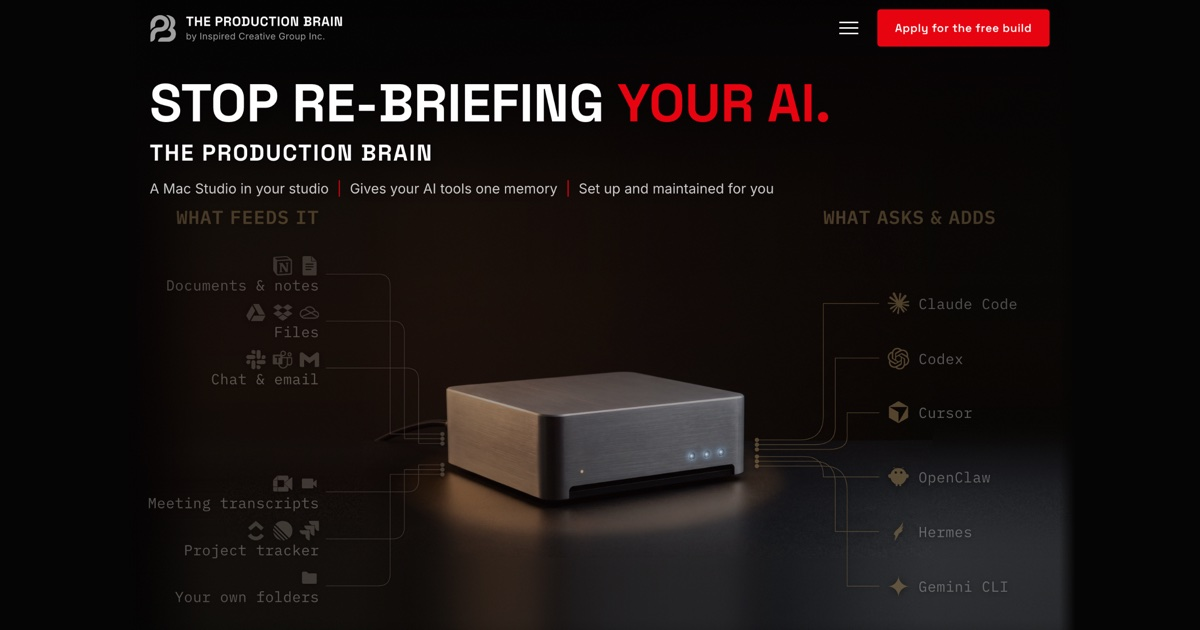
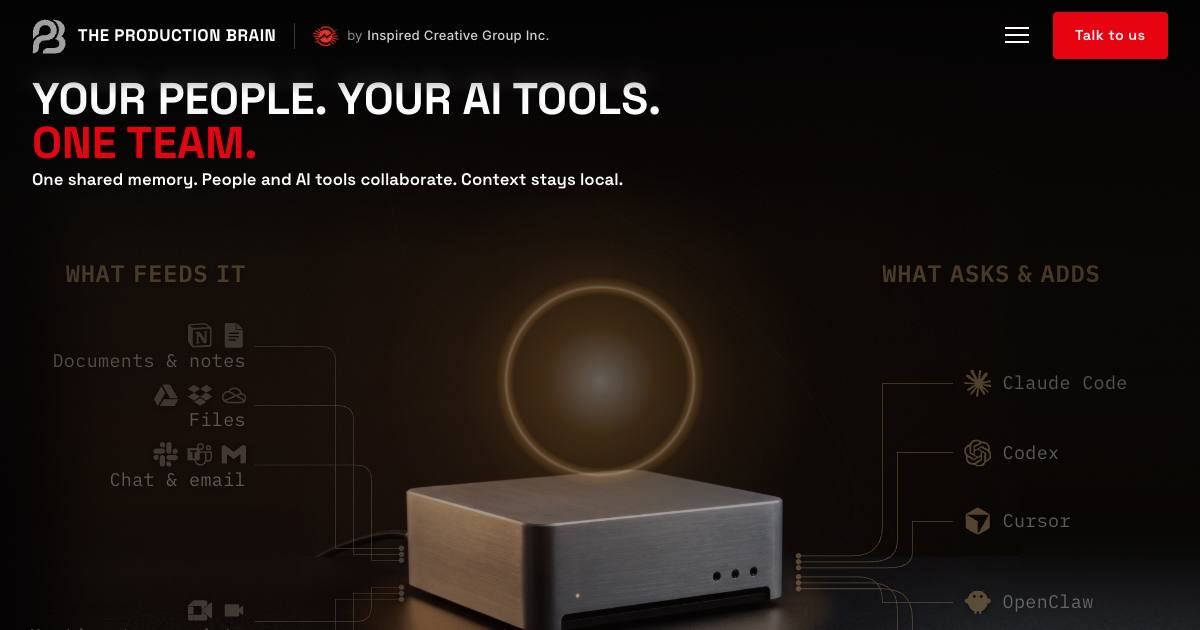
Offer: free build removed; every button reads Talk to us; setup fee quoted after a first call; pricing toggle removed (form_type call_request); new share image (Sandy, 2026-11-20)

diff --git a/index.html b/index.html
@@ -37,18 +37,18 @@
     <meta property="og:description" content="Stop being the messenger for your AI tools. The Production Brain gives your company one memory that every AI shares, and you own it. Built and maintained by Inspired Creative Group.">
     <meta name="twitter:title" content="The Production Brain | Inspired Creative Group Inc.">
     <meta name="twitter:description" content="Stop being the messenger for your AI tools. The Production Brain gives your company one memory that every AI shares, and you own it. Built and maintained by Inspired Creative Group.">
-    <meta name="twitter:image" content="https://theproductionbrain.ai/assets/og-image.jpg?v=20261009">
+    <meta name="twitter:image" content="https://theproductionbrain.ai/assets/og-image.jpg?v=20261120">
     <meta property="og:type" content="website">
     <meta property="og:site_name" content="The Production Brain">
     <meta property="og:url" content="https://theproductionbrain.ai/">
-    <meta property="og:image" content="https://theproductionbrain.ai/assets/og-image.jpg?v=20261009">
-    <meta property="og:image:secure_url" content="https://theproductionbrain.ai/assets/og-image.jpg?v=20261009">
+    <meta property="og:image" content="https://theproductionbrain.ai/assets/og-image.jpg?v=20261120">
+    <meta property="og:image:secure_url" content="https://theproductionbrain.ai/assets/og-image.jpg?v=20261120">
     <meta property="og:image:type" content="image/jpeg">
     <meta property="og:image:width" content="1200">
     <meta property="og:image:height" content="630">
-    <meta property="og:image:alt" content="The Production Brain hero: stop being the messenger for your AI tools. A Mac Studio wired to what feeds it and the AI tools that ask and add.">
+    <meta property="og:image:alt" content="The Production Brain hero: your people, your AI tools, one team. A Mac Studio wired to what feeds it and the AI tools that ask and add.">
     <meta name="twitter:card" content="summary_large_image">
-    <meta name="twitter:image:alt" content="The Production Brain hero: stop being the messenger for your AI tools. A Mac Studio wired to what feeds it and the AI tools that ask and add.">
+    <meta name="twitter:image:alt" content="The Production Brain hero: your people, your AI tools, one team. A Mac Studio wired to what feeds it and the AI tools that ask and add.">
     <link rel="canonical" href="https://theproductionbrain.ai/">
     <link rel="preconnect" href="https://fonts.googleapis.com">
     <link rel="preconnect" href="https://fonts.gstatic.com" crossorigin>
@@ -984,7 +984,7 @@
                     </div>
                 </div>
             </div>
-            <div class="mm-nav-actions"><button class="nav-toggle" id="navToggle" type="button" aria-label="Open the section menu" aria-expanded="false" aria-controls="navLinks"><span></span><span></span><span></span></button><a href="#founding-offer" class="btn btn-primary nav-cta-btn"><span class="mm-cta-long">Apply for the free build</span><span class="mm-cta-short">Apply</span></a></div>
+            <div class="mm-nav-actions"><button class="nav-toggle" id="navToggle" type="button" aria-label="Open the section menu" aria-expanded="false" aria-controls="navLinks"><span></span><span></span><span></span></button><a href="#founding-offer" class="btn btn-primary nav-cta-btn"><span class="mm-cta-long">Talk to us</span><span class="mm-cta-short">Talk to us</span></a></div>
         </div>
     </nav>
 
@@ -1269,7 +1269,7 @@
                 <p class="mm-calc-stat"><span>77%</span> of knowledge workers say their AI needs to know their company's history and decisions.</p>
                 <p class="mm-calc-stat"><span>21%</span> say it does.</p>
             </div>
-            <div class="mm-cta-row"><a href="#founding-offer" class="btn btn-primary mm-apply">Apply for the free build</a></div>
+            <div class="mm-cta-row"><a href="#founding-offer" class="btn btn-primary mm-apply">Talk to us</a></div>
             <p class="mm-calc-note" id="mmCostNote">Source: <a href="https://www.atlassian.com/blog/ai-at-work/want-more-confidence-in-ai-give-it-more-context" target="_blank" rel="noopener">Atlassian Teamwork Lab</a>, 1,002 full-time US knowledge workers, July 28 to August 3, 2026.</p>
         </div>
     </section>
@@ -1446,9 +1446,9 @@
                 <span class="mm-vsl-len">Watch &middot; 6:05</span>
                 <!-- End card: shown when the video finishes. The video's last line is "click the button below this video", so the button comes to them. -->
                 <div class="mm-vsl-end">
-                    <p class="mm-vsl-end-title">One company gets <span class="text-accent">a free build.</span></p>
-                    <a href="#founding-offer" class="btn btn-primary mm-vsl-end-apply" id="mmVslEndApply">Apply for the free build</a>
-                    <span class="mm-vsl-end-note">One spot only.</span>
+                    <p class="mm-vsl-end-title">We set it up <span class="text-accent">for your team.</span></p>
+                    <a href="#founding-offer" class="btn btn-primary mm-vsl-end-apply" id="mmVslEndApply">Talk to us</a>
+                    <span class="mm-vsl-end-note">We reply within a day.</span>
                     <button type="button" class="mm-vsl-again" id="mmVslAgain">&#8635; Watch again</button>
                 </div>
             </div>
@@ -1465,8 +1465,8 @@
                 <li><button type="button" class="mm-vsl-chap" data-t="319"><span>5:19</span>The offer</button></li>
             </ol>
             <div class="mm-cta-row mm-vsl-cta">
-                <a href="#founding-offer" class="btn btn-primary mm-apply" id="mmVslApply">Apply for the free build</a>
-                <span class="mm-vsl-note">One spot only.</span>
+                <a href="#founding-offer" class="btn btn-primary mm-apply" id="mmVslApply">Talk to us</a>
+                <span class="mm-vsl-note">We set it up for your team.</span>
             </div>
         </div>
     </section>
@@ -1650,7 +1650,7 @@
                 </ol>
                 <p class="mm-plan-promise">Maintenance starts on day one. The maintenance subscription starts on day 91.</p>
                 <p class="mm-plan-promise">Not a fit after 90 days? We refund the build fee and cancel the subscription. You keep the Mac.</p>
-                <div class="mm-cta-row"><a href="#founding-offer" class="btn btn-primary mm-apply">Apply for the free build</a></div>
+                <div class="mm-cta-row"><a href="#founding-offer" class="btn btn-primary mm-apply">Talk to us</a></div>
             </div>
             <div class="section-header gsap-animate">
                 <h2 class="section-title">Your company's memory<br><span class="text-accent">belongs to your company.</span></h2>
@@ -1777,21 +1777,21 @@
         <div class="container">
             <div class="contact-grid">
                 <div class="contact-info gsap-animate">
-                    <span class="section-label mm-offer-badge">Founding offer</span>
-                    <h2 class="section-title">One company gets <span class="text-accent">a free build.</span></h2>
+                    <span class="section-label mm-offer-badge">Set up for you</span>
+                    <h2 class="section-title">We come in and <span class="text-accent">set it up for you.</span></h2>
                     <div class="mm-card mm-founding">
-                        <p><strong>You get:</strong> the full build, free. We install the brain, load the models and connect your tools.</p>
-                        <p><strong>You cover:</strong> the Mac at Apple's price, no markup, and the monthly maintenance fee with 30% off for the first year.</p>
-                        <p class="mm-offer-close">One spot only, chosen from the applicants.</p>
+                        <p><strong>You get:</strong> we learn how your team works, install the brain, load the models, connect your tools and set up the workflows you want automated.</p>
+                        <p><strong>You cover:</strong> the Mac at Apple's price, no markup, a setup fee quoted for your team, and monthly maintenance.</p>
+                        <p class="mm-offer-close">Every setup is scoped and quoted after a first call.</p>
                     </div>
-                    <span class="section-label mm-sub-label">Apply</span>
-                    <h3 class="mm-sub-title">Apply for the free build.</h3>
-                    <p class="contact-text">Your team, your tools. We reply within a day.</p>
+                    <span class="section-label mm-sub-label">Talk to us</span>
+                    <h3 class="mm-sub-title">Tell us about your team.</h3>
+                    <p class="contact-text">We reply within a day to set up a call.</p>
                 </div>
                 <div class="contact-form-wrap gsap-animate" id="mm-form">
                     <span id="contact" class="mm-anchor mm-anchor-form" aria-hidden="true"></span>
                     <form class="contact-form" id="partnersForm" action="https://formspree.io/f/mbdagppd" method="POST">
-                        <input type="hidden" name="_subject" value="Production Brain pricing request">
+                        <input type="hidden" name="_subject" value="Production Brain call request">
                         <input type="hidden" name="inquiry_type" value="Production Brain">
                         <input type="text" name="_gotcha" style="display:none" tabindex="-1" autocomplete="off">
                         <div class="form-row">
@@ -1823,10 +1823,8 @@
                             <label for="mmTools">Which AI tools do you use?</label>
                             <input type="text" id="mmTools" name="tools" placeholder="Claude Code, ChatGPT, Cursor...">
                         </div>
-                        <label class="mm-check"><input type="checkbox" name="founding_application" value="yes" id="mmFoundingBox" checked> Apply for the founding spot (free build)</label>
                         <div class="cf-turnstile" data-sitekey="0x4AAAAAADgzGd1p-2PHlr5a" data-theme="dark" data-size="flexible" style="margin-bottom:1rem;"></div>
-                        <button type="submit" class="btn btn-primary btn-full" id="partnerSubmitBtn">Apply for the free build</button>
-                        <button type="button" class="mm-pricing-link" id="mmPricingLink">Or ask for standard pricing</button>
+                        <button type="submit" class="btn btn-primary btn-full" id="partnerSubmitBtn">Talk to us</button>
                     </form>
                     <div class="form-success" id="partnerFormSuccess" style="display:none;">
                         <div class="form-success-icon">✓</div>
@@ -1923,11 +1921,8 @@
         var form = document.getElementById('partnersForm');
         var success = document.getElementById('partnerFormSuccess');
         var submitBtn = document.getElementById('partnerSubmitBtn');
-        /* one ask: Apply by default; the secondary link switches the form to a plain pricing request (2026-10-03) */
-        var box = document.getElementById('mmFoundingBox'), plink = document.getElementById('mmPricingLink');
-        function btnLabel() { return box && !box.checked ? 'Request pricing' : 'Apply for the free build'; }
-        if (box) box.addEventListener('change', function() { submitBtn.textContent = btnLabel(); if (plink) plink.hidden = !box.checked; });
-        if (plink) plink.addEventListener('click', function() { box.checked = false; submitBtn.textContent = btnLabel(); plink.hidden = true; });
+        /* one ask: Talk to us. The free build and the pricing toggle were removed 2026-11-20 (Sandy). */
+        function btnLabel() { return 'Talk to us'; }
         if (form) {
             form.addEventListener('submit', function(e) {
                 e.preventDefault();
@@ -1936,7 +1931,7 @@
                 fetch(form.action, { method: 'POST', body: data, headers: { 'Accept': 'application/json' } }).then(function(response) {
                     if (response.ok) {
                         form.style.display = 'none'; success.style.display = 'block';
-                        if (window.gtag) gtag('event', 'generate_lead', { form_type: box && !box.checked ? 'pricing_request' : 'founding_application', link_location: 'form', transport_type: 'beacon' });
+                        if (window.gtag) gtag('event', 'generate_lead', { form_type: 'call_request', link_location: 'form', transport_type: 'beacon' });
                         var cfToken = data.get('cf-turnstile-response') || '';
                         if (cfToken) {
                             var gasBody = new URLSearchParams({

diff --git a/.claude/product-marketing.md b/.claude/product-marketing.md
@@ -14,7 +14,7 @@ Rewritten 2026-11-16 and 2026-11-17 for the message update (brief: vault `projec
 ## The offer (what the page sells today)
 One brain for the business, on a dedicated machine (a Mac Studio) in the client's studio, built by hand and maintained remotely by ICG over a private encrypted network. It keeps its own notes, checks itself every night for stale or contradicting facts, and never deletes. Build fee plus monthly maintenance; hardware bought by the client at Apple's price; 90-day refund of the build fee on standard pricing.
 
-**The page shows no prices** (since 2026-10-16). Prices are locked in the vault (`2026-10-04-production-brain-pricing-LOCKED`); what the page displays is Juan's call. Founding offer: one studio, free build, 30% off maintenance for the first year, no deadline.
+**The page shows no prices** (since 2026-10-16). Prices are locked in the vault (`2026-10-04-production-brain-pricing-LOCKED`); what the page displays is Juan's call. No free build and no founding offer since 2026-11-20 (Sandy): every setup is scoped and quoted after a first call. The page says "a setup fee quoted for your team"; no price is shown.
 
 **Not on the page:** the Cloud and Local tiers. Cloud has no design or price; Local's smaller model is untested.
 
@@ -46,4 +46,4 @@ Juan Valencia's: direct, warm, no filler, no em dashes, no AI tells, clarity ove
 The "Grok Bot Joins the Team" YouTube episode (out by 2026-11-20) sends viewers here with the one-brain story. Also LinkedIn messages from Juan, the launch video, the Volta founders network. Visitors are producers, not IT buyers.
 
 ## The one action
-"Apply for the free build" (form). A secondary link in the form asks for standard pricing.
+"Talk to us" (form, and every button that leads to it). No pricing toggle.
